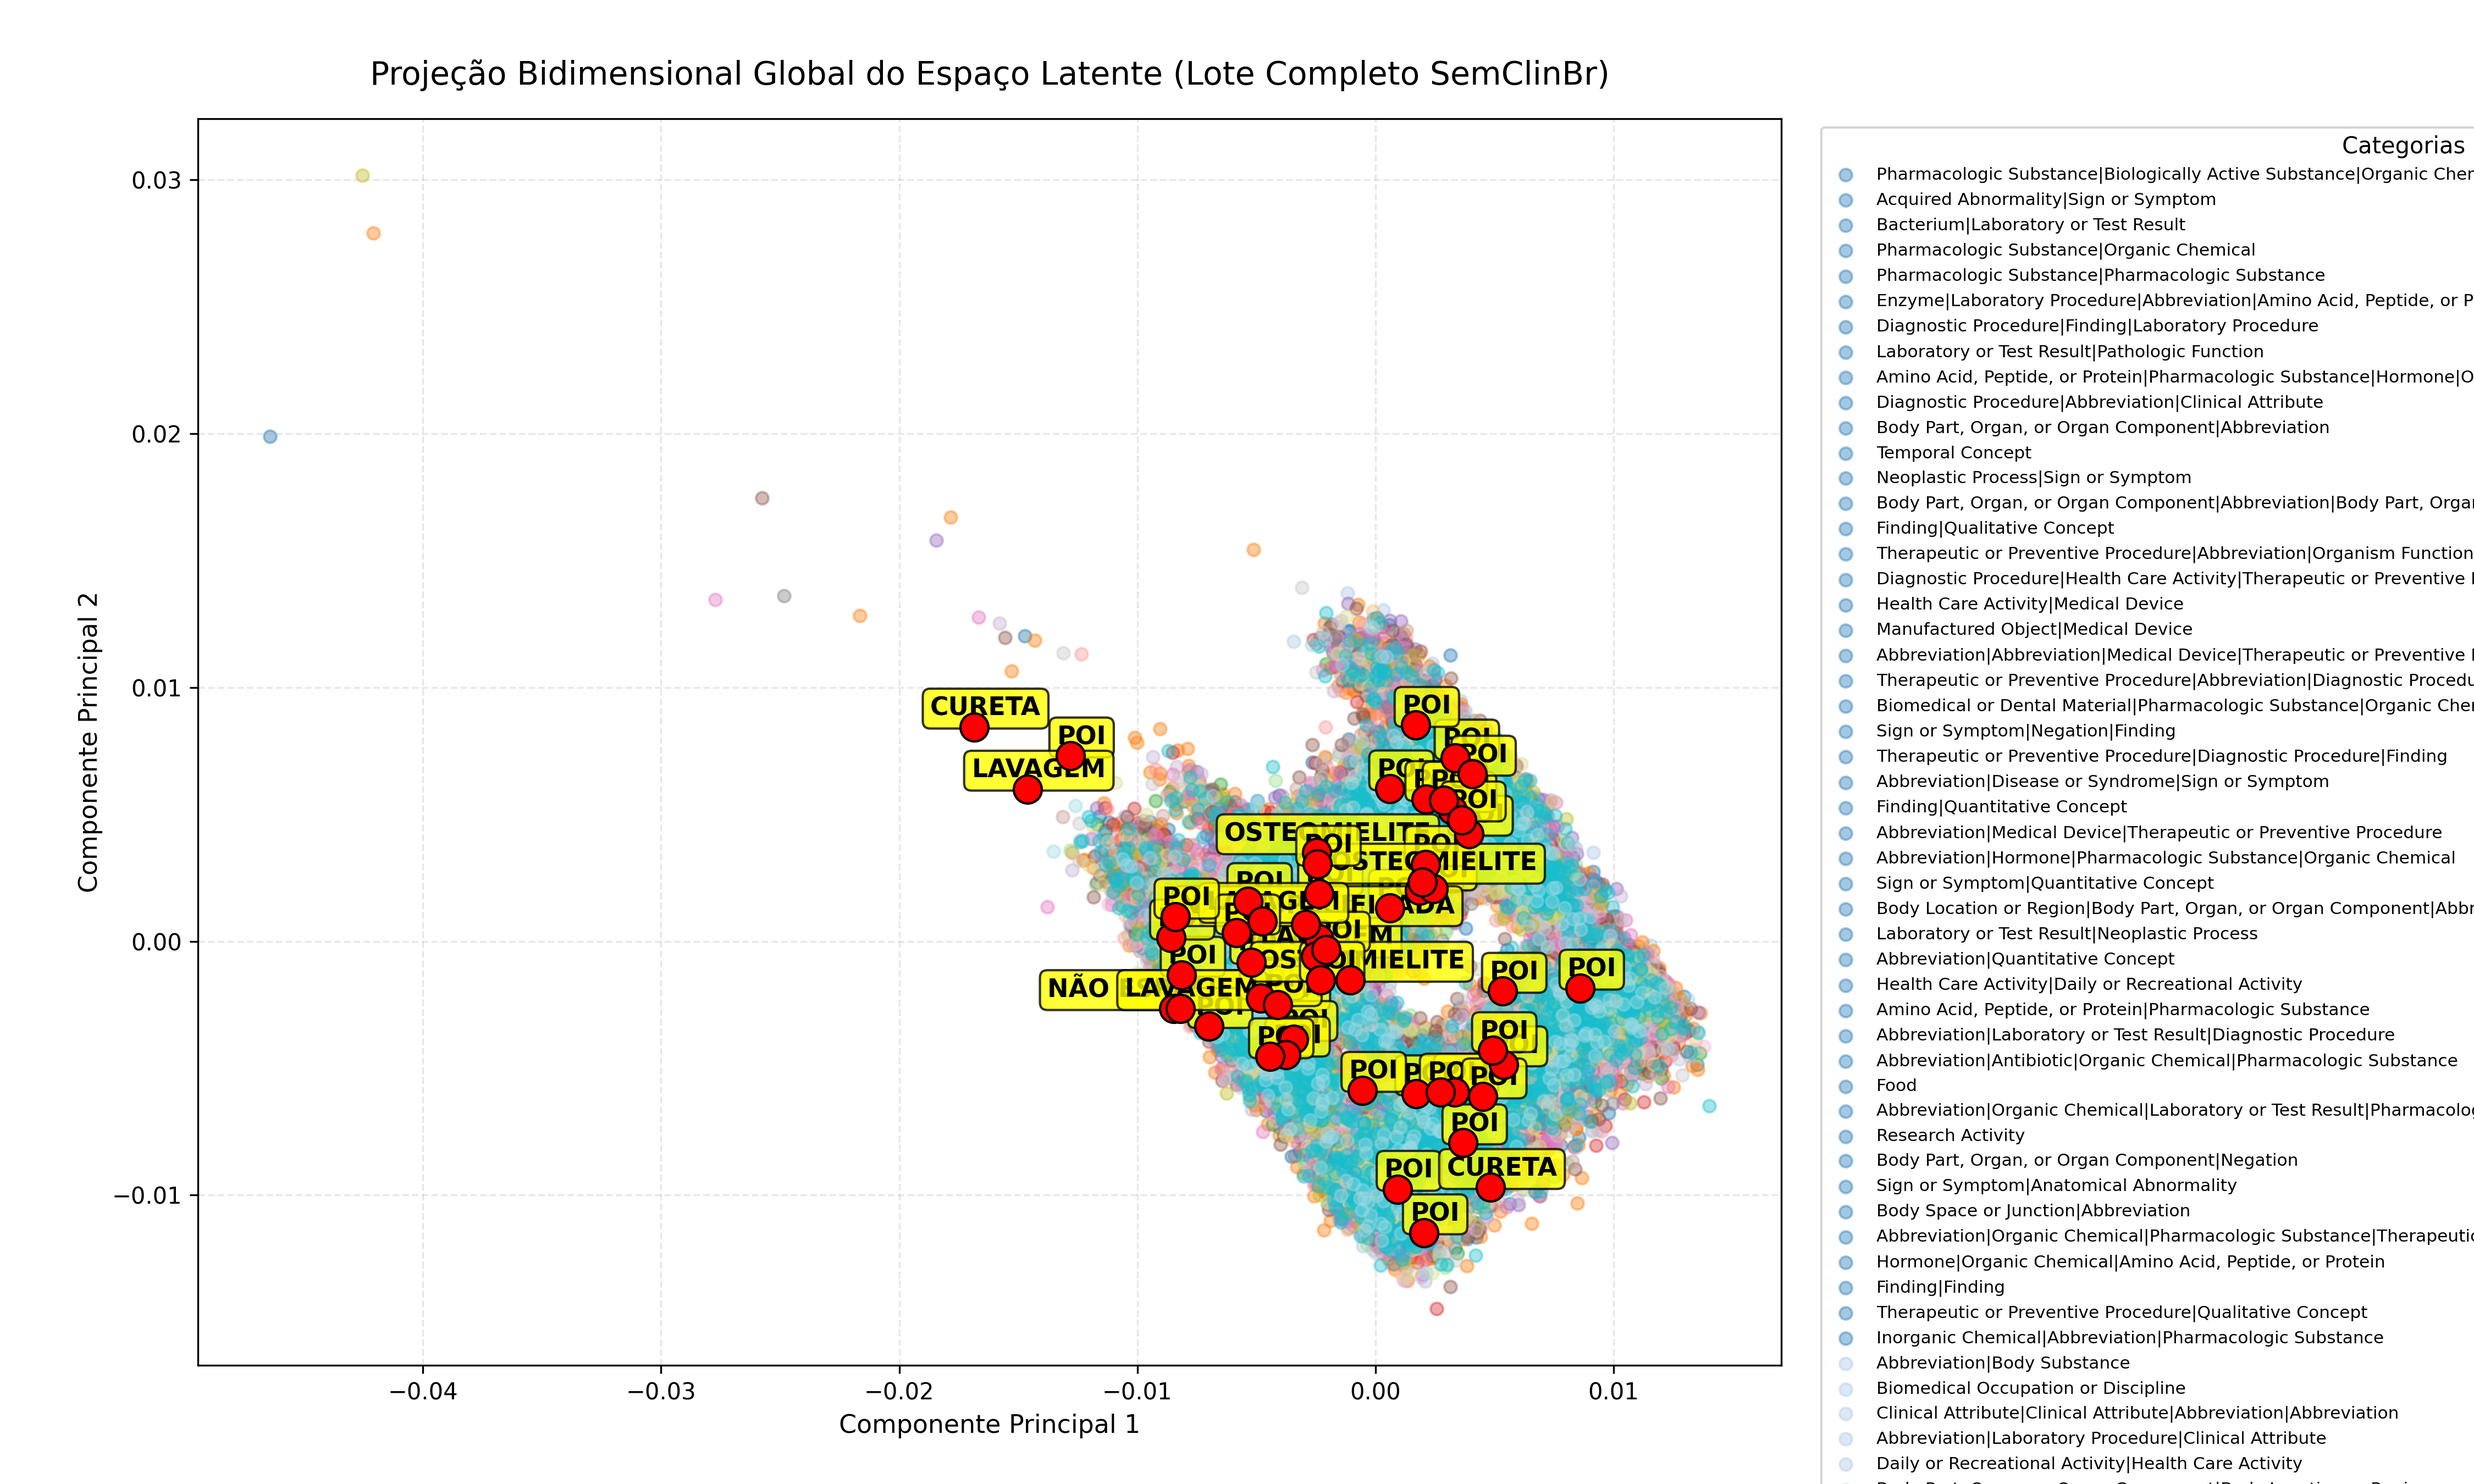
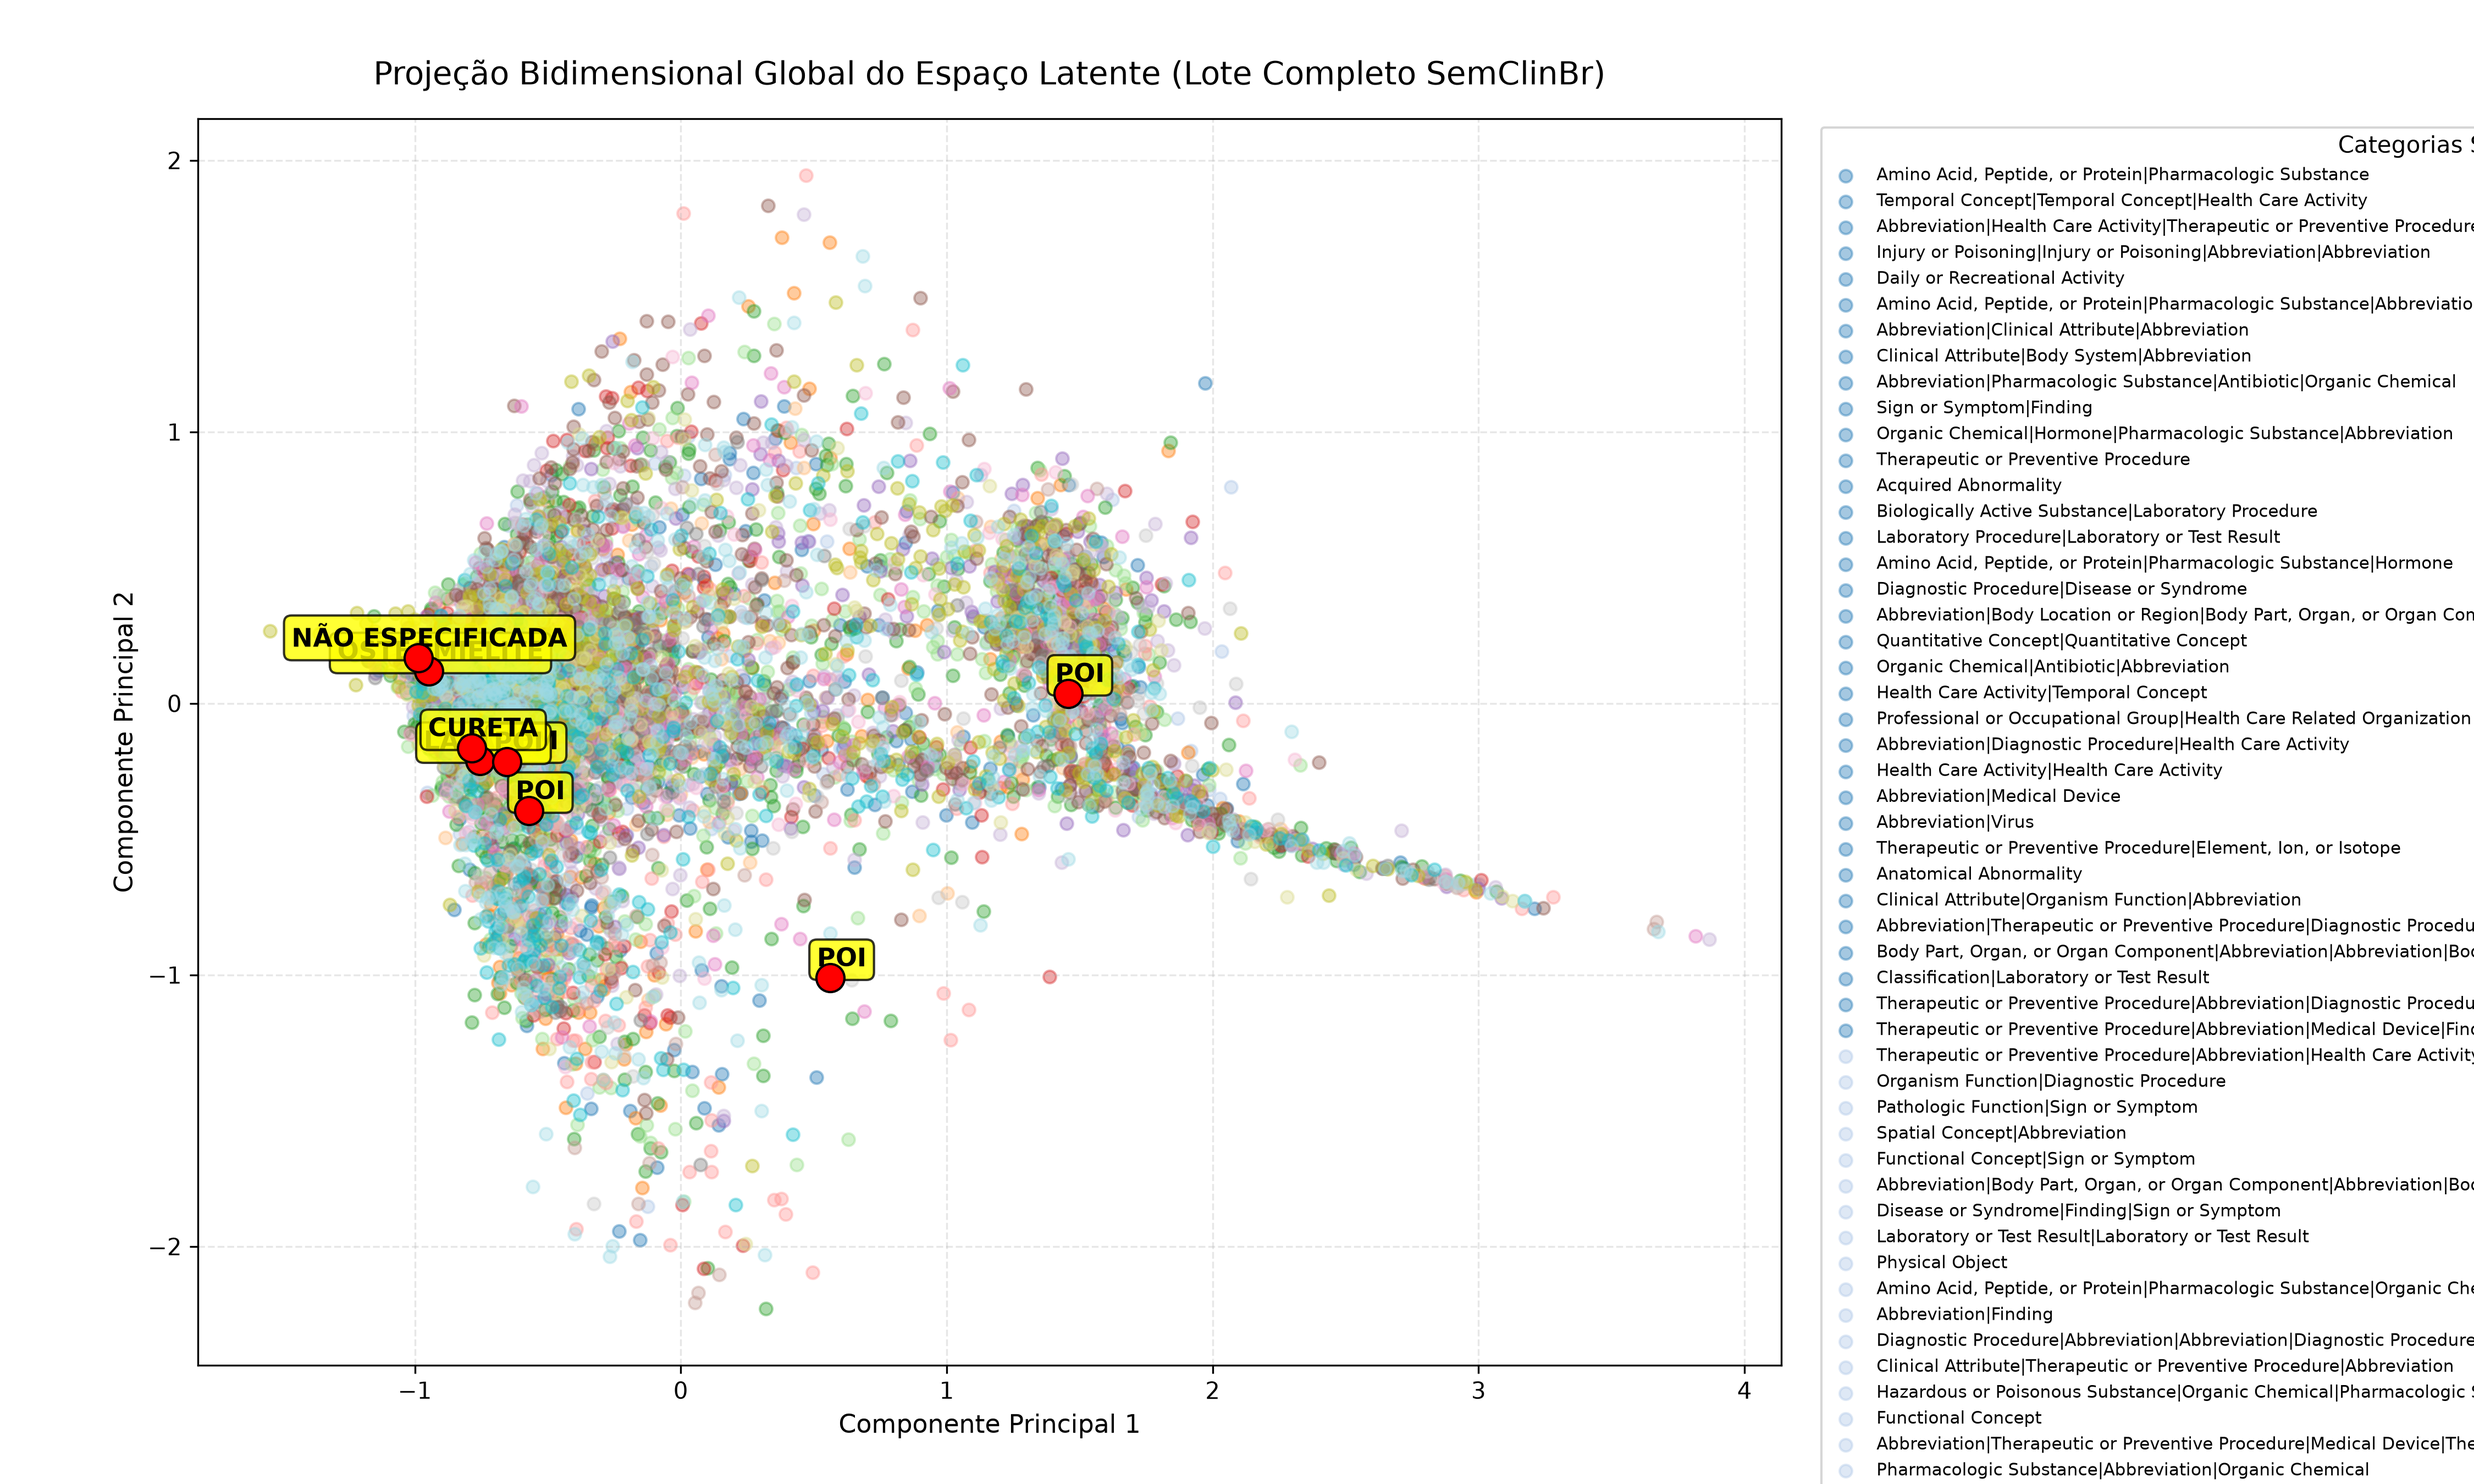
feat(estatisticas): calcular estatisticas estruturais do grafo e excluir nos isolados da avaliacao
- src/graph_stats.py: novo GraphStatsAnalyzer, calcula total de nos e
  arestas, nos isolados, componentes conexos (gds.wcc.stream) e
  distribuicao de grau (gds.degree.stream), tratando o grafo como
  nao-direcionado (mesma orientacao usada na projecao do Node2Vec).
  Expoe get_isolated_nodes() para ser reaproveitado por outros scripts.
- graph_stats.py (raiz): script de entrada que roda o calculo, imprime
  o relatorio e salva results/estatisticas_grafo.json.
- main.py: adiciona etapa 3.5, que consulta os nos isolados via
  GraphStatsAnalyzer e os exclui de vectors antes de qualquer analise
  (similaridade, PCA/clusters). Um no sem nenhuma aresta nao recebe
  sinal estrutural do Node2Vec (nao ha caminhada partindo dele), entao
  seu vetor e essencialmente ruido de inicializacao; incluir esses nos
  nas metricas de qualidade de embedding as distorce.
- results/estatisticas_grafo.json e results/clusters_globais_semclinbr.png:
  saida real da execucao (17897 nos, 9253 arestas, 9936 nos isolados
  excluidos da avaliacao — 55.5% do grafo).

Atende ao item 3 do feedback da banca (caracterizacao estrutural do
grafo) e usa o resultado para corrigir a avaliacao dos embeddings.

diff --git a/src/graph_stats.py b/src/graph_stats.py
@@ -1,0 +1,146 @@
+from neo4j import GraphDatabase
+import numpy as np
+
+
+class GraphStatsAnalyzer:
+    """
+    Calcula estatísticas estruturais do grafo de conhecimento clínico:
+    componentes conexos, nós isolados e distribuição de grau.
+
+    Todas as métricas tratam o grafo como não-direcionado (mesma orientação
+    usada na projeção do Node2Vec em embeddings.py), para que os números
+    sejam diretamente comparáveis com o restante do trabalho.
+    """
+
+    def __init__(self, uri, user, password):
+        self.driver = GraphDatabase.driver(uri, auth=(user, password))
+        self.graph_name = "clinical_projection"
+
+    def close(self):
+        self.driver.close()
+
+    def get_isolated_nodes(self):
+        """
+        Retorna os nós sem nenhuma relação (id, text, tag_type), para que
+        outros scripts (main.py, benchmarks de clustering) possam excluí-los
+        de avaliações de qualidade de embedding (PCA, similaridade,
+        clustering) — nós sem aresta não têm sinal estrutural aprendido pelo
+        Node2Vec, então incluí-los distorce essas métricas. Abre e fecha sua
+        própria sessão, então pode ser chamado de forma independente de
+        compute_stats().
+        """
+        query = """
+        MATCH (n:Entidade)
+        WHERE NOT (n)--()
+        RETURN n.id AS id, n.text AS text, n.tag_type AS tag_type
+        """
+        with self.driver.session() as session:
+            return [dict(record) for record in session.run(query)]
+
+    def compute_stats(self):
+        with self.driver.session() as session:
+            self._ensure_projection(session)
+
+            stats = {}
+            stats["total_nos"] = self._count_nodes(session)
+            stats["total_arestas"] = self._count_relationships(session)
+            stats["nos_isolados"] = self._count_isolated_nodes(session)
+            stats.update(self._weakly_connected_components(session))
+            stats.update(self._degree_distribution(session))
+            return stats
+
+    def _ensure_projection(self, session):
+        """
+        Reaproveita a projeção 'clinical_projection' se ela já estiver em
+        memória (por exemplo, logo após rodar main.py); caso contrário, cria
+        uma nova com a mesma orientação (UNDIRECTED) usada para os embeddings.
+        """
+        existing = [
+            record["graphName"]
+            for record in session.run("CALL gds.graph.list() YIELD graphName RETURN graphName")
+        ]
+
+        if self.graph_name in existing:
+            print(f"[INFO] Reaproveitando projeção '{self.graph_name}' já em memória.")
+            return
+
+        print(f"[INFO] Projeção '{self.graph_name}' não encontrada. Criando...")
+        query = """
+        CALL gds.graph.project(
+          $graph_name,
+          'Entidade',
+          {
+            CONECTA_A: {
+              type: 'CONECTA_A',
+              orientation: 'UNDIRECTED'
+            }
+          }
+        )
+        """
+        session.run(query, graph_name=self.graph_name)
+
+    def _count_nodes(self, session):
+        return session.run("MATCH (n:Entidade) RETURN count(n) AS total").single()["total"]
+
+    def _count_relationships(self, session):
+        return session.run("MATCH ()-[r:CONECTA_A]->() RETURN count(r) AS total").single()["total"]
+
+    def _count_isolated_nodes(self, session):
+        """
+        Nós sem nenhuma relação — calculado direto em Cypher (independe da
+        projeção do GDS), contando conceitos que apareceram no corpus mas
+        nunca foram relacionados a outro conceito.
+        """
+        query = "MATCH (n:Entidade) WHERE NOT (n)--() RETURN count(n) AS total"
+        return session.run(query).single()["total"]
+
+    def _weakly_connected_components(self, session):
+        """
+        Componentes conexos (Weakly Connected Components). Como a projeção já
+        é UNDIRECTED, WCC aqui equivale a componentes conexos "normais" de
+        teoria dos grafos.
+        """
+        query = """
+        CALL gds.wcc.stream($graph_name)
+        YIELD nodeId, componentId
+        RETURN componentId, count(*) AS tamanho
+        ORDER BY tamanho DESC
+        """
+        result = session.run(query, graph_name=self.graph_name)
+        tamanhos = [record["tamanho"] for record in result]
+
+        if not tamanhos:
+            return {"num_componentes_conexos": 0, "tamanho_maior_componente": 0, "pct_nos_no_maior_componente": 0.0}
+
+        total_nos = sum(tamanhos)
+        return {
+            "num_componentes_conexos": len(tamanhos),
+            "tamanho_maior_componente": tamanhos[0],
+            "pct_nos_no_maior_componente": round(100 * tamanhos[0] / total_nos, 2),
+        }
+
+    def _degree_distribution(self, session):
+        """
+        Grau de cada nó via GDS Degree Centrality. Como a projeção já é
+        UNDIRECTED, NÃO especificamos orientation de novo aqui — o grau
+        resultante já é o grau não-direcionado correto (cada aresta conta 1
+        para cada um dos dois nós que ela conecta, sem dobrar).
+        """
+        query = """
+        CALL gds.degree.stream($graph_name)
+        YIELD nodeId, score
+        RETURN score AS grau
+        """
+        result = session.run(query, graph_name=self.graph_name)
+        graus = np.array([record["grau"] for record in result], dtype=float)
+
+        if graus.size == 0:
+            return {"grau_medio": 0.0, "grau_mediano": 0.0, "grau_min": 0.0, "grau_max": 0.0, "grau_desvio_padrao": 0.0}
+
+        return {
+            "grau_medio": round(float(np.mean(graus)), 3),
+            "grau_mediano": float(np.median(graus)),
+            "grau_min": float(np.min(graus)),
+            "grau_max": float(np.max(graus)),
+            "grau_desvio_padrao": round(float(np.std(graus)), 3),
+        }

diff --git a/main.py b/main.py
@@ -6,6 +6,7 @@ from src.database import Neo4jInjestor
 from src.embeddings import GraphEmbeddingManager
 from src.analysis import EmbeddingAnalyzer
 from src.visualizer import EmbeddingVisualizer
+from src.graph_stats import GraphStatsAnalyzer
 
 def main():
     # 1. Varredura dinâmica de múltiplos arquivos XML usando glob
@@ -49,16 +50,37 @@ def main():
         print(f"[ERRO NOS EMBEDDINGS] {e}")
         return
 
+    # 3.5 Exclusão dos nós isolados antes de qualquer avaliação de qualidade
+    # de embedding. Um nó sem nenhuma aresta não tem sinal estrutural: o
+    # Node2Vec não gera nenhuma caminhada a partir dele, então o vetor
+    # recebido é essencialmente ruído de inicialização, não algo aprendido.
+    # Incluí-lo em PCA/similaridade/clustering distorce essas métricas
+    # (decisão registrada no plano de ação pós-banca, ver item 3).
+    print("\n=== 3.5. EXCLUSÃO DE NÓS ISOLADOS DA AVALIAÇÃO ===")
+    try:
+        stats_analyzer = GraphStatsAnalyzer(NEO4J_URI, NEO4J_USER, NEO4J_PASSWORD)
+        isolated_ids = {n["id"] for n in stats_analyzer.get_isolated_nodes()}
+        stats_analyzer.close()
+    except Exception as e:
+        print(f"[AVISO] Não foi possível consultar nós isolados ({e}); prosseguindo sem filtrar.")
+        isolated_ids = set()
+
+    vectors_avaliaveis = [v for v in vectors if v["id"] not in isolated_ids]
+    print(
+        f"[INFO] {len(isolated_ids)} nós isolados excluídos da avaliação "
+        f"({len(vectors_avaliaveis)} de {len(vectors)} nós restantes)."
+    )
+
     # 4. Análise de Similaridade Semântica e Geração do Novo Gráfico
     print("\n=== 4. PROCESSAMENTO ANALÍTICO E VISUAL ===")
-    analyzer = EmbeddingAnalyzer(vectors)
-    
+    analyzer = EmbeddingAnalyzer(vectors_avaliaveis)
+
     # Executa buscas de validação rápida no console para verificar os novos cossenos
     _, _ = analyzer.find_most_similar_by_text("OSTEOMIELITE", top_n=3)
     _, _ = analyzer.find_most_similar_by_text("POI", top_n=3)
 
     print("\n=== 5. PLOTAGEM DO NOVO MAPA DE CLUSTERS ===")
-    visualizer = EmbeddingVisualizer(vectors)
+    visualizer = EmbeddingVisualizer(vectors_avaliaveis)
     
     # Mantemos os mesmos termos de interesse destacados, mas agora mapeados no novo espaço multidimensional
     termos_destaque = ["OSTEOMIELITE", "NÃO ESPECIFICADA", "POI", "LAVAGEM", "CURETA"]

diff --git a/graph_stats.py b/graph_stats.py
@@ -1,0 +1,45 @@
+import json
+import os
+
+from config import NEO4J_URI, NEO4J_USER, NEO4J_PASSWORD
+from src.graph_stats import GraphStatsAnalyzer
+
+# Rótulos legíveis para o relatório impresso no console.
+LABELS = {
+    "total_nos": "Total de nós (conceitos únicos)",
+    "total_arestas": "Total de arestas",
+    "nos_isolados": "Nós isolados (sem nenhuma relação)",
+    "num_componentes_conexos": "Número de componentes conexos",
+    "tamanho_maior_componente": "Tamanho do maior componente conexo",
+    "pct_nos_no_maior_componente": "% dos nós dentro do maior componente",
+    "grau_medio": "Grau médio",
+    "grau_mediano": "Grau mediano",
+    "grau_min": "Grau mínimo",
+    "grau_max": "Grau máximo",
+    "grau_desvio_padrao": "Desvio padrão do grau",
+}
+
+
+def main():
+    print("=== ESTATÍSTICAS ESTRUTURAIS DO GRAFO DE CONHECIMENTO CLÍNICO ===\n")
+
+    analyzer = GraphStatsAnalyzer(NEO4J_URI, NEO4J_USER, NEO4J_PASSWORD)
+    try:
+        stats = analyzer.compute_stats()
+    finally:
+        analyzer.close()
+
+    for chave, valor in stats.items():
+        rotulo = LABELS.get(chave, chave)
+        print(f"{rotulo}: {valor}")
+
+    os.makedirs("results", exist_ok=True)
+    output_path = os.path.join("results", "estatisticas_grafo.json")
+    with open(output_path, "w", encoding="utf-8") as f:
+        json.dump(stats, f, ensure_ascii=False, indent=2)
+
+    print(f"\n[SUCESSO] Estatísticas salvas em: {output_path}")
+
+
+if __name__ == "__main__":
+    main()
